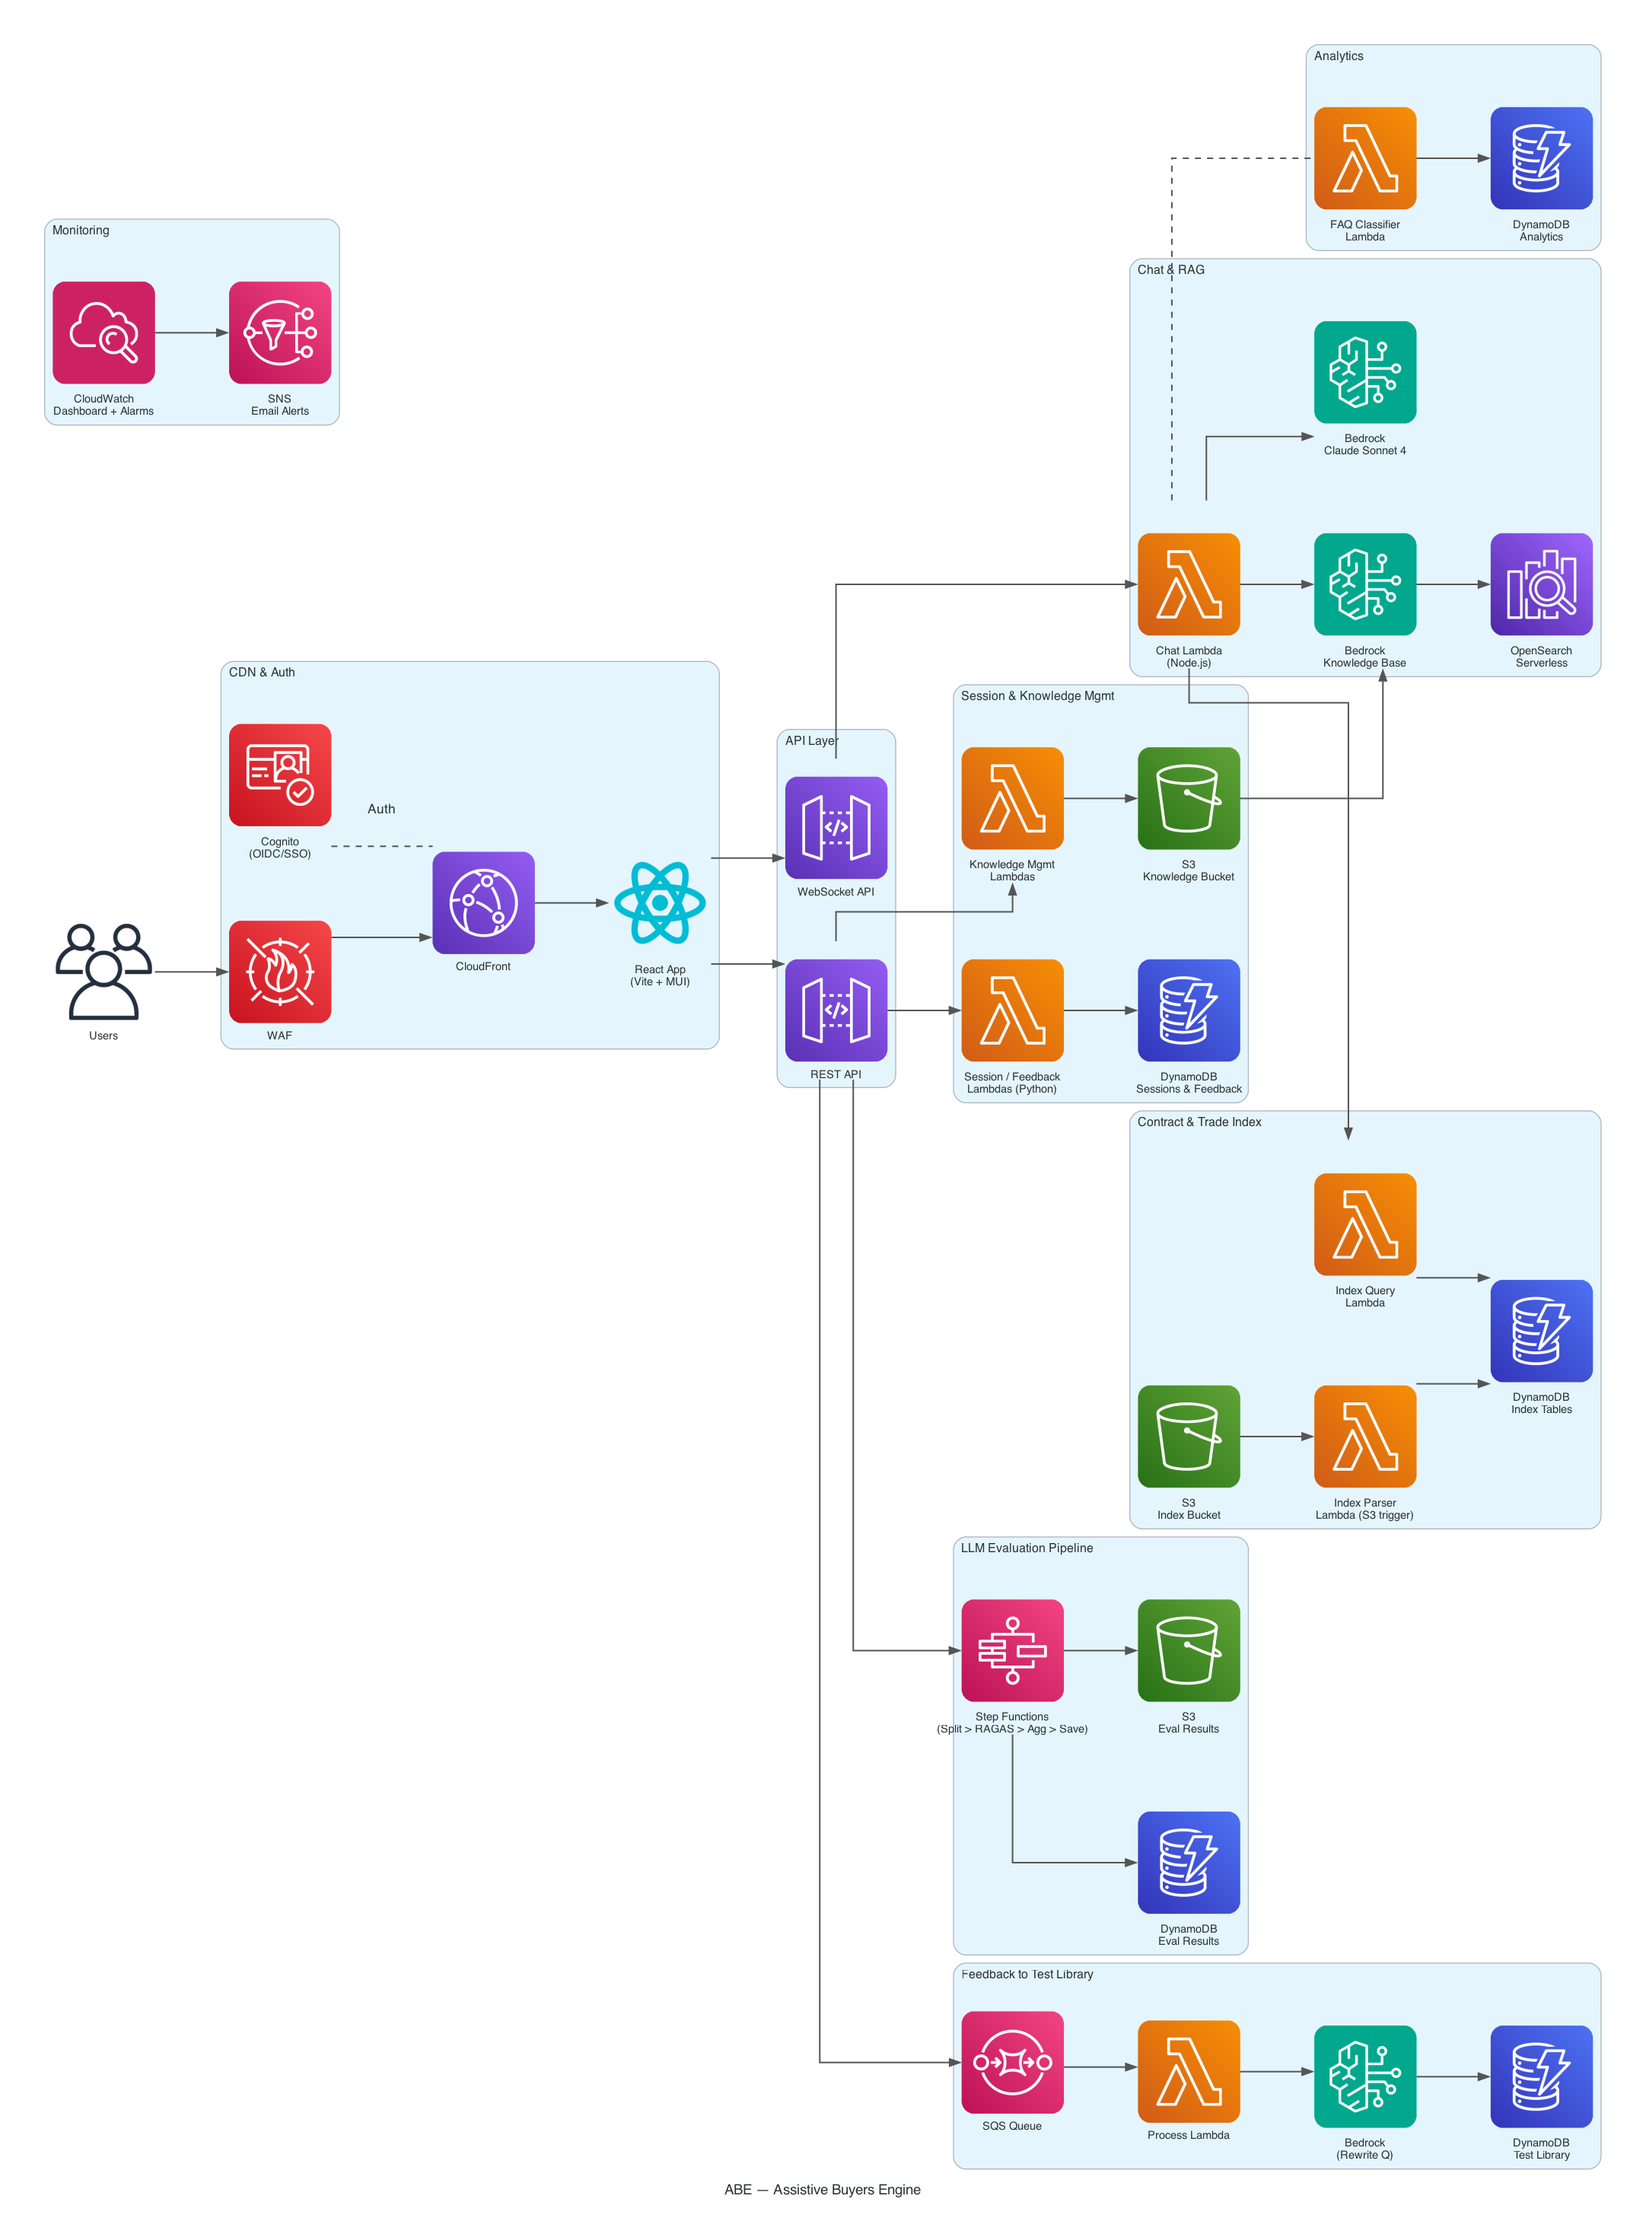
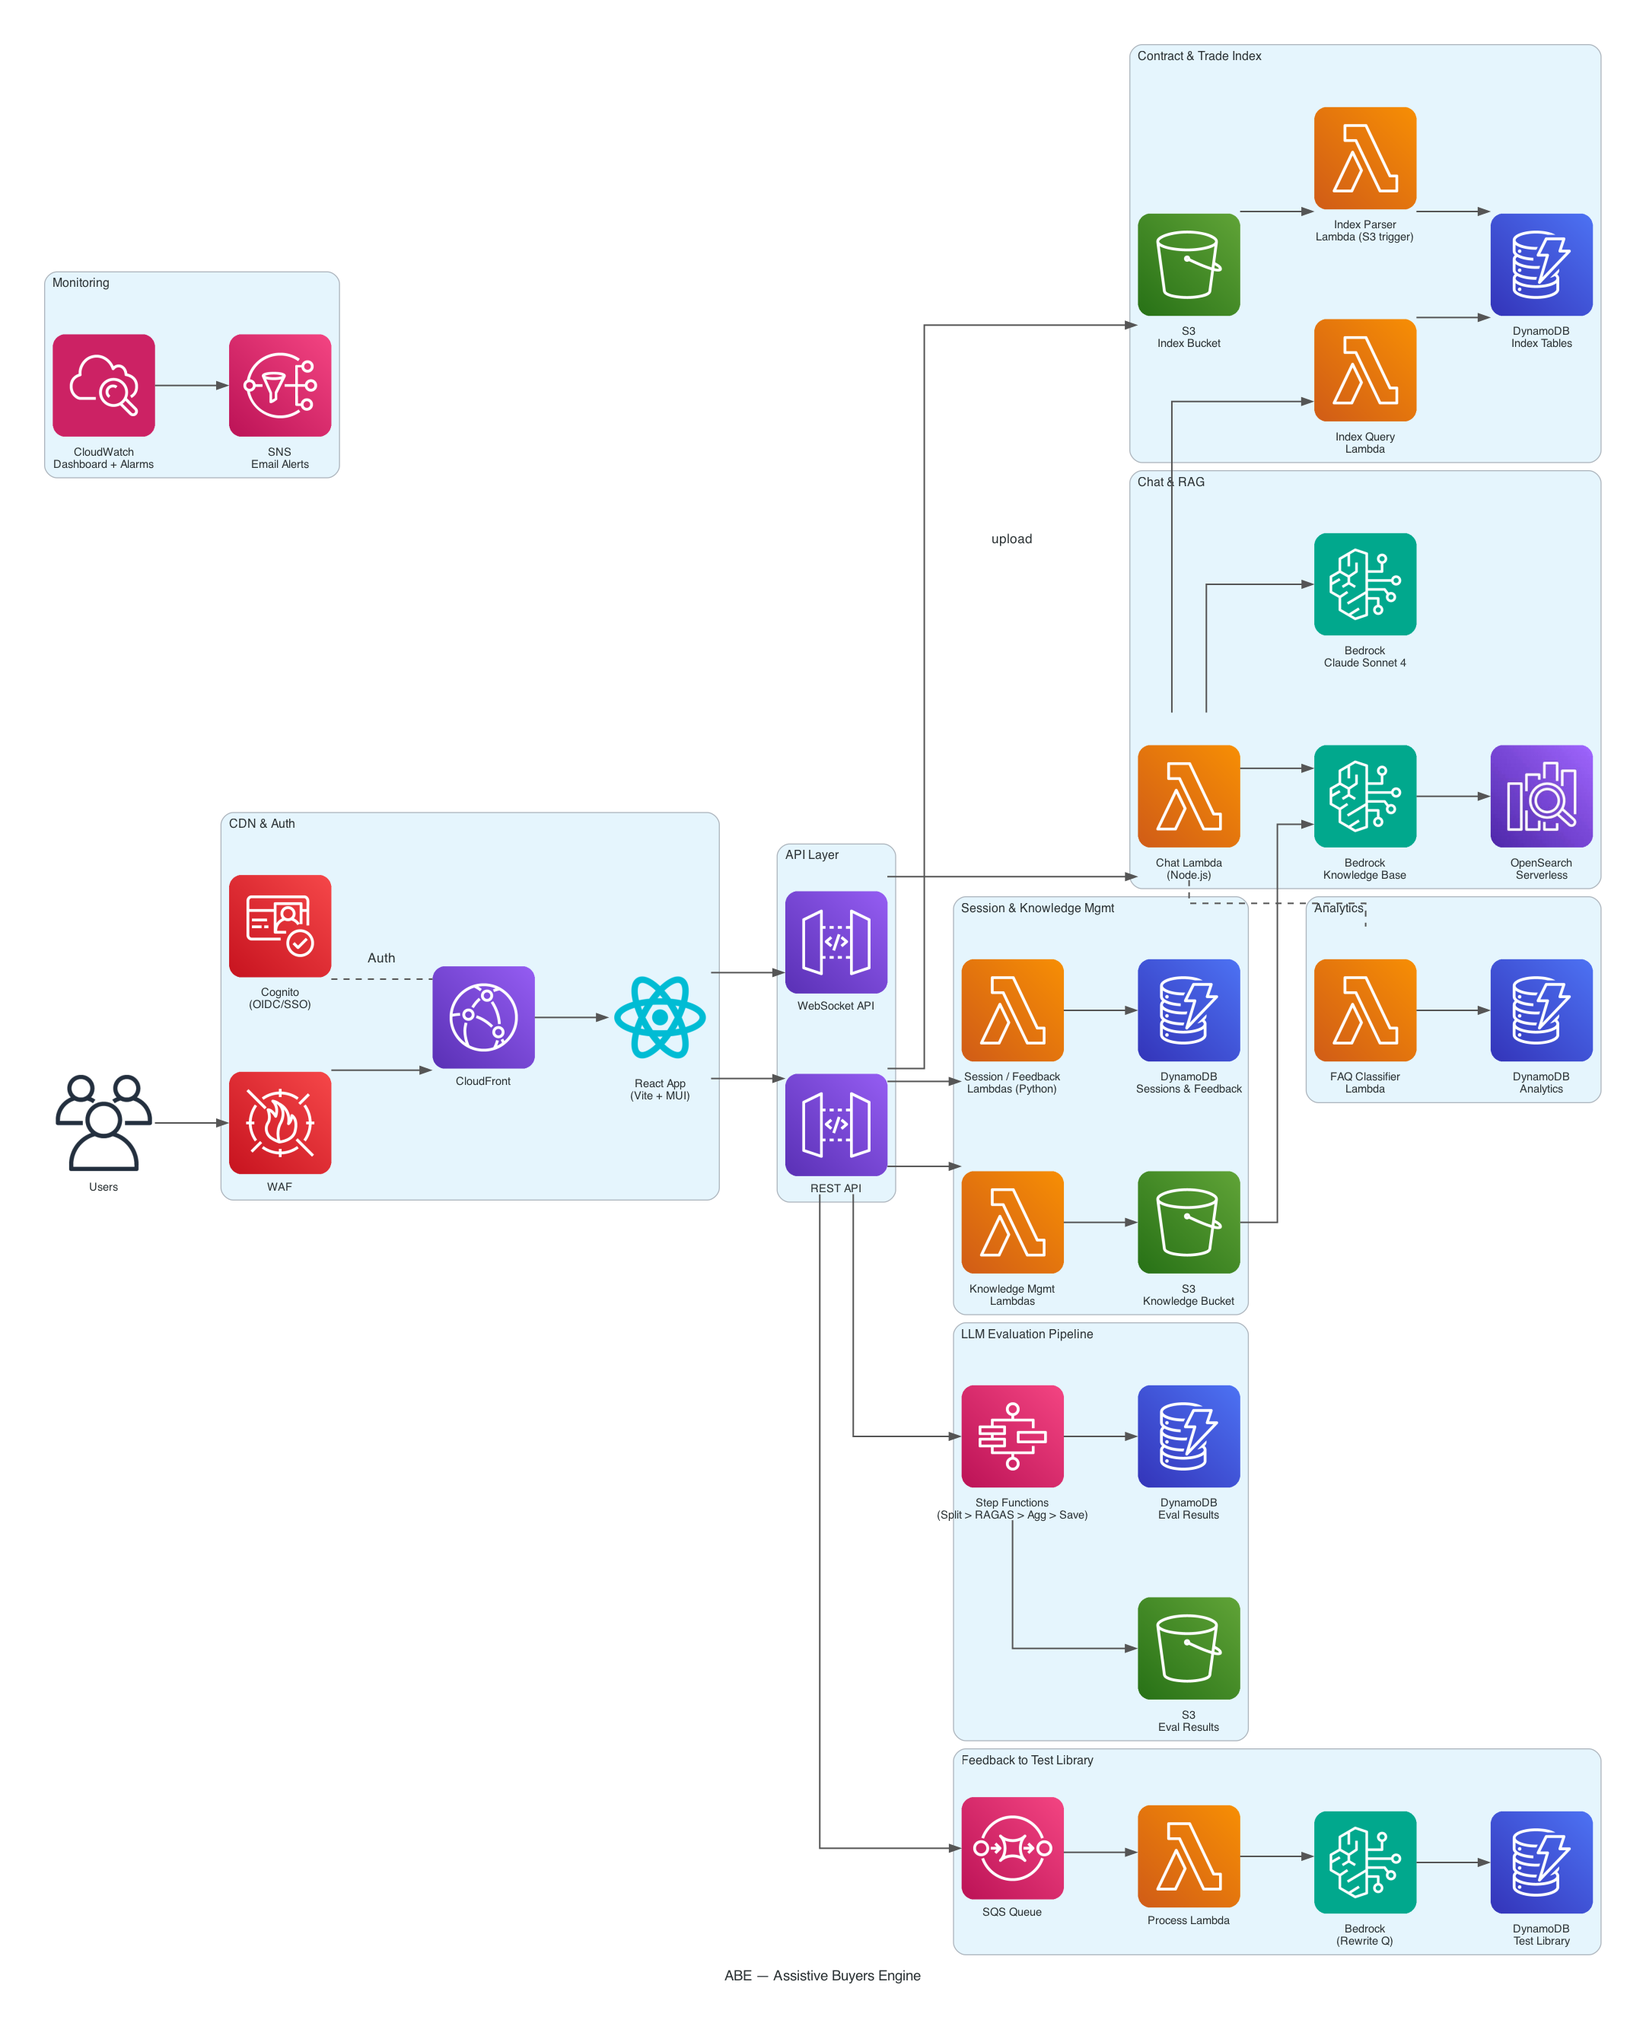
Add REST API upload arrow to contract index in architecture diagram

diff --git a/docs/generate_architecture.py b/docs/generate_architecture.py
@@ -105,7 +105,8 @@ with Diagram(
     chat_fn >> kb >> opensearch
     chat_fn >> idx_query >> idx_ddb
 
-    # Contract index
+    # Contract index (admin uploads .xlsx via REST presigned URL → S3 → parser)
+    rest >> Edge(label="upload") >> idx_s3
     idx_s3 >> idx_parser >> idx_ddb
 
     # Session & Knowledge
